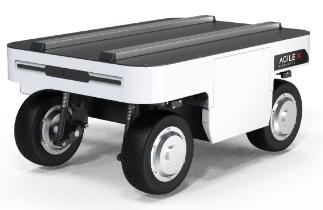
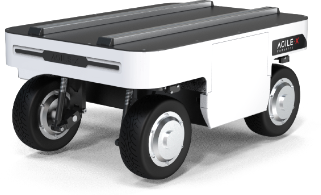
img: use the three-quarter Ranger Mini photo rather than AgileX's side render
AgileX's official Ranger Mini 3.0 render is a flat side elevation. Cropped to the
subject it fills its tile edge to edge, next to a Scout Mini shot at three
quarters with breathing room — so it read as oversized and stylistically apart
from everything else on the hub.

Checked the rest of AgileX's Ranger Mini 3.0 assets for a three-quarter cutout:
there is not one. The others are a wet-surface close-up, a dark close-up and an
environmental shot beside a wheel loader.

So the hub now uses the photo that shipped with the original site content, which
matches the Scout Mini in both angle and scale.

The caveat, recorded in the provenance table: which generation that photo
actually depicts is unverified — the same file served both the 2.0 and the 3.0
pages before the 2.0 was unlisted. AgileX's verified 3.0 render is in git history
if accuracy turns out to matter more than the visual match.

Also re-keys the white background out of both ranger images. That keying was
done earlier and then lost to a `git checkout` during an unrelated image
cleanup, so they had been sitting on the hub as white rectangles.

diff --git a/docs/design/product-page-template.md b/docs/design/product-page-template.md
@@ -237,7 +237,7 @@ Hero images are almost always **the vendor's copyright**, not ours. As their dis
 | `robot/img/realman/wrl63.png` | WRL63 | Realman [RML63 product page](https://www.realman-robotics.com/en/products/rml63.html) (`RML63-标准版`) | Vendor render. Alpha-trimmed, downscaled to 720 px tall |
 | `robot/img/ufactory/xarm.png` | xArm 6 | UFactory [xArm 6 product page](https://www.ufactory.cc/product-page/ufactory-xarm-6/) (`xarm56-1305_画板-1-副本-2.png`) | Vendor render. A UFACTORY badge occupying the top 14 % of the canvas, separate from the arm, was masked out; the arm itself is untouched |
 | `peripheral/img/westonrobot/regulator_v2.jpg` | Power Regulator v2 | Photographed in-house | **Ours — no rights question.** Cropped to the unit and downscaled. The serial-number label is legible when zoomed; redact it if that matters |
-| `robot/img/agilex/ranger_mini_v3.png` | Ranger Mini 3.0 | AgileX [Ranger Mini 3 product page](https://global.agilex.ai/products/ranger-mini-3) (`Rangermini3.0__3.png`) | Vendor render. Alpha-trimmed and downscaled. Replaced a 321 × 195 image that was being **upscaled** to fill the hero |
+| `robot/img/agilex/ranger_mini_v3.png` | Ranger Mini 3.0 | Supplied with the original site content | **Which generation this depicts is unverified** — the same file served both the 2.0 and 3.0 pages before the 2.0 was unlisted. Kept on preference: AgileX's own 3.0 render is a flat side elevation that fills the frame, which sits badly beside the Scout Mini's three-quarter view. Their render is in git history if the accuracy matters more than the match |
 
 The three vendor renders are **pending confirmation** that our agreements cover documentation use. Replace with vendor-supplied assets if that is cleaner. The regulator photo is our own and needs no such check.
 
